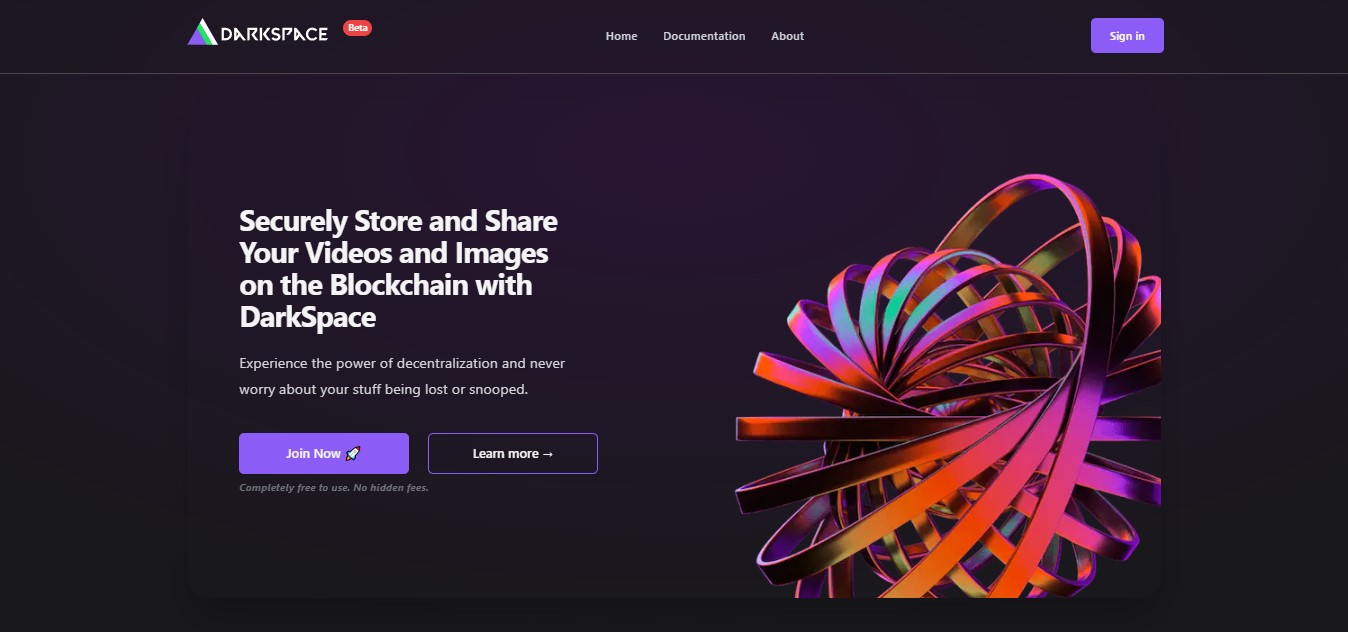
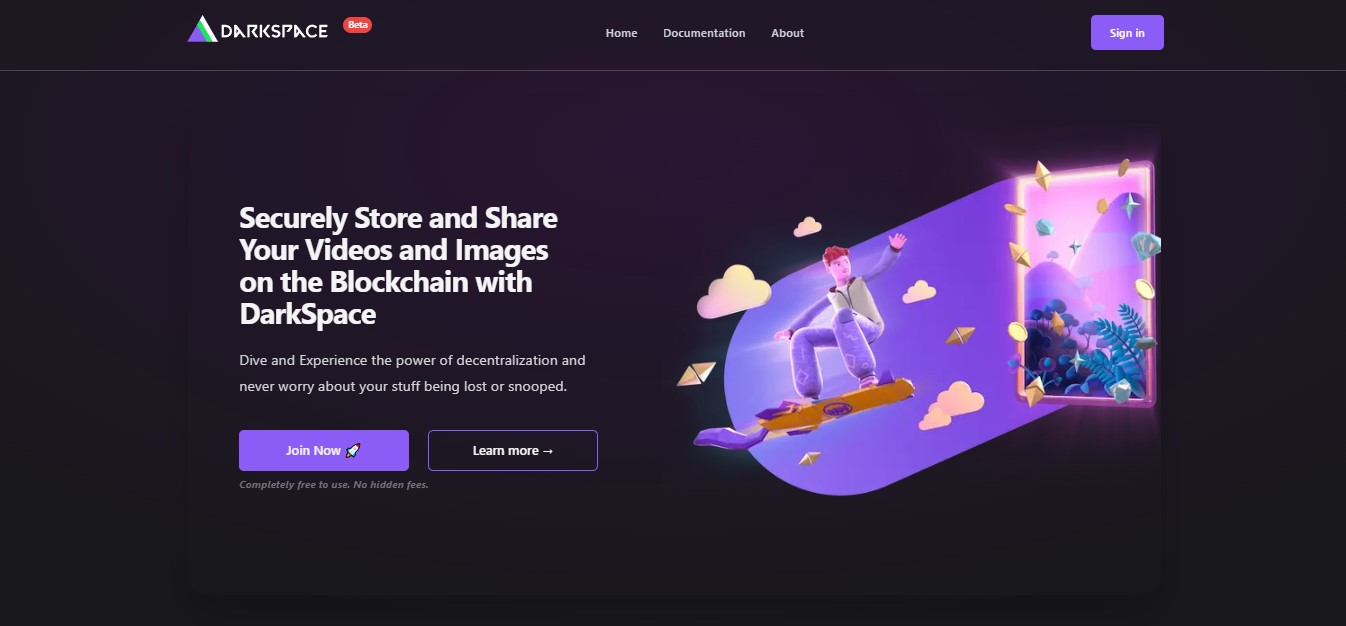
update: hero section ✔

diff --git a/components/CtaSection.js b/components/CtaSection.js
@@ -21,15 +21,15 @@ export default function CtaSection() {
             </h2>
             <p className="mt-6 text-lg leading-8 text-zinc-300">
               <Balancer>
-                Experience the power of decentralization and never worry about
-                your stuff being lost or snooped.
+                Dive and Experience the power of decentralization and never
+                worry about your stuff being lost or snooped.
               </Balancer>
             </p>
             <div className="mt-10 flex items-center justify-center gap-x-6 lg:justify-start">
               <button
-                onClick={() =>{
-                  setActivePage("dashboard")
-                  Router.push("/dashboard")
+                onClick={() => {
+                  setActivePage("dashboard");
+                  Router.push("/dashboard");
                 }}
                 className={`${styles.button} border border-violet-500 hover:border-transparent w-full duration-200 transition-all rounded-md bg-violet-500 px-3.5 py-1.5 text-base font-semibold leading-7 md:leading-9 text-zinc-100 shadow-sm focus-visible:outline focus-visible:outline-2 focus-visible:outline-offset-2 focus-visible:outline-white`}
               >
@@ -45,13 +45,13 @@ export default function CtaSection() {
               Completely free to use. No hidden fees.
             </p>
           </div>
-          <div className="relative mt-16 h-80 lg:mt-8">
+          <div className="relative mt-16 h-80 lg:mt-8 mx-auto lg:mx-0">
             <Image
               alt="hero image"
-              src="/assets/hero-geometry.webp"
+              src="/assets/hero-02.png"
               width={600}
               height={600}
-              className="absolute top-0 left-0 w-[33rem] lg:w-[45rem] max-w-none rounded-md"
+              className="absolute top-0 left-0 w-[33rem] md:w-[45rem] max-w-none rounded-md"
             />
             {/* <SafariMockup
               className="absolute top-0 left-0 w-[50rem] max-w-none rounded-md"

diff --git a/pages/_app.js b/pages/_app.js
@@ -111,14 +111,14 @@ function MyApp({ Component, pageProps: { session, ...pageProps } }) {
               <meta property="og:url" content="https://darkspace.vercel.app/"/>
               <meta property="og:title" content="DarkSpace - The Next Generation of Secure and Decentralized Data Storage"/>
               <meta property="og:description" content="Securely Store and Share Your Videos and Images on the Blockchain with DarkSpace."/>
-              <meta property="og:image" content="https://user-images.githubusercontent.com/53792139/219534621-8718c7ec-577a-4527-a144-e89b7a609ab2.jpg"/>
+              <meta property="og:image" content="https://user-images.githubusercontent.com/53792139/220366899-cfa45ecb-20b8-4021-8aa7-788e74095309.png"/>
 
               {/* <!-- Twitter --> */}
               <meta property="twitter:card" content="summary_large_image"/>
               <meta property="twitter:url" content="https://darkspace.vercel.app/"/>
               <meta property="twitter:title" content="DarkSpace - The Next Generation of Secure and Decentralized Data Storage"/>
               <meta property="twitter:description" content="Securely Store and Share Your Videos and Images on the Blockchain with DarkSpace."/>
-              <meta property="twitter:image" content="https://user-images.githubusercontent.com/53792139/219534621-8718c7ec-577a-4527-a144-e89b7a609ab2.jpg"/>
+              <meta property="twitter:image" content="https://user-images.githubusercontent.com/53792139/220366899-cfa45ecb-20b8-4021-8aa7-788e74095309.png"/>
               
               <script
                 async

diff --git a/pages/dashboard/index.js b/pages/dashboard/index.js
@@ -7,14 +7,14 @@ import { useStateContext } from "../../context";
 import { DisplayFiles } from "../../components";
 
 const Home = () => {
-  const { address, getPublicFiles } = useStateContext();
+  const { address } = useStateContext();
 
-  const fetchFiles = async () => {
-    const data = await getPublicFiles();
-    return data.reverse()
-  };
+  const fetcher = (url) => fetch(url).then((res) => res.json());
 
-  const { data, error, isLoading } = useSWR(["publicFiles"], fetchFiles);
+  const { data, error, isLoading } = useSWR(
+    "/api/fetch/fetchpublicfiles",
+    fetcher
+  );
 
   useEffect(() => {
     console.log("Mounted");
